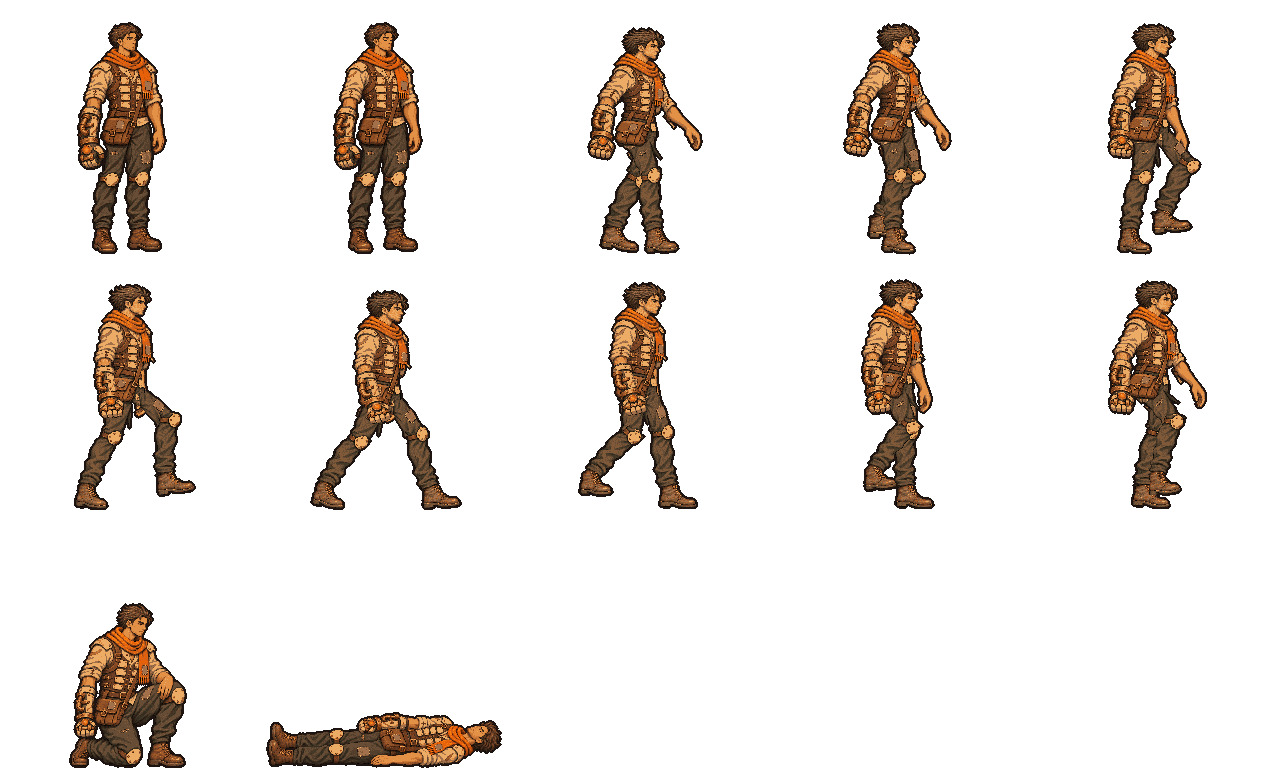
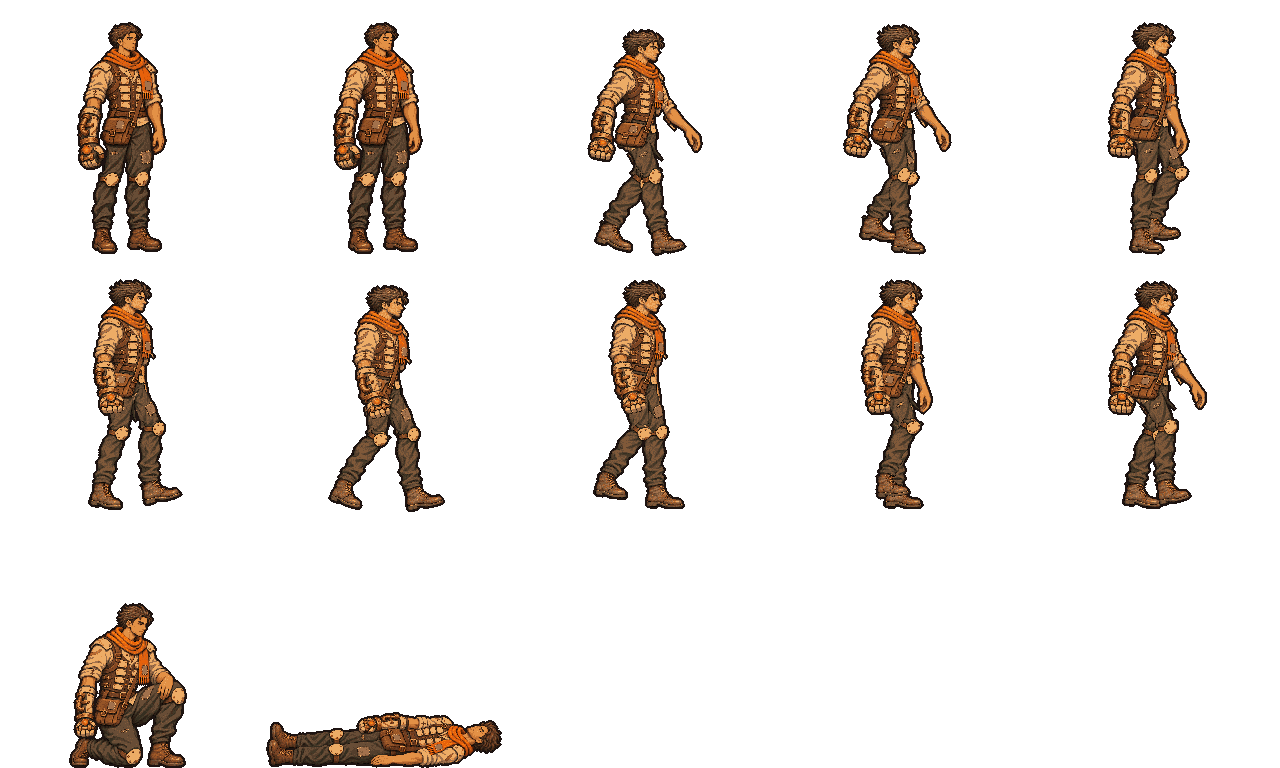
Mara walks evenly, without the marching knee
Mara's walk had three faults: the swinging foot rose high and stayed up
as it reached forward (a marching knee), the front leg landed bent, and
the body dipped twice as far on one step as on the other (a limp, because
each foot swung about its own drawn ankle and the masters stand with one
foot back). Now both feet swing about a point under the hips
(walk.footCentre, per leg where the drawing needs evening out), the
swinging foot clears the floor just after toe-off and lowers as the leg
straightens (walk.liftEarly, a lower lift), the stride is a little
shorter and a stronger toe-off roll lets the front leg land nearly
straight. Applied to all three outfits and the five sheets rebuilt. A
new test checks the even dip, the straight landing leg and the low
reaching foot; the footprint test now checks that planted feet do not
slide wherever they land.

Claude-Session: https://claude.ai/code/session_01AMqmskooHnvNzTbiQ2UBtU

diff --git a/adventure/tests/layered-rig.test.ts b/adventure/tests/layered-rig.test.ts
@@ -22,7 +22,7 @@ test('eleven complete registered layers reconstruct each approved master byte fo
 test('Mara walks with lower passing feet and a five-degree upper-body lean only',()=>{
   for(const [i,pack] of packs.entries()){
     const cfg=pack.cfg;
-    assert.equal(cfg.walk.lift,[120,117,107][i]);
+    assert.equal(cfg.walk.lift,[70,68,62][i]);
     assert.equal(cfg.walk.torsoLeanDegrees,5);
     const straight=structuredClone(cfg);delete straight.walk.torsoLeanDegrees;
     for(let phase=0;phase<8;phase+=.25){
@@ -31,7 +31,8 @@ test('Mara walks with lower passing feet and a five-degree upper-body lean only'
       assert.ok(Math.abs(torsoAngle-neutralAngle-5*Math.PI/180)<1e-10,'base lean is retained beneath the subtle counter-sway');
       assert.deepEqual(pose.feet,neutral.feet,'lean cannot move planted feet');
       assert.deepEqual(pose.knees,neutral.knees,'lean cannot change leg geometry');
-      for(const side of ['near','far'])assert.ok(cfg.joints[side+'Ankle'][1]-pose.feet[side].ankle[1]<=cfg.walk.lift+1e-7);
+      // The early lift peaks a little above walk.lift just after toe-off, and the toe-off roll raises the heel.
+      for(const side of ['near','far'])assert.ok(cfg.joints[side+'Ankle'][1]-pose.feet[side].ankle[1]<=cfg.walk.lift*1.25+1e-7);
     }
     const previous=structuredClone(cfg);previous.walk.lift=[180,175,160][i];delete previous.walk.torsoLeanDegrees;
     assert.ok(walkPose(cfg,6).knees.near[1]>walkPose(previous,6).knees.near[1],'passing knee is lower');
@@ -112,6 +113,23 @@ test('installed kneeling and lying frames preserve the gauntlet power state',()=
         const k=(y*a.width+x)*4;assert.equal(a.data[k+3],b.data[k+3]);if(!a.data.subarray(k,k+3).equals(b.data.subarray(k,k+3)))changed++;
       }
       assert.ok(changed>0&&changed<100,`${base}/${tag}: ${changed}`);
+    }
+  }
+});
+
+test('Mara steps evenly on both legs, lands on a nearly straight leg and swings the foot low as it reaches',()=>{
+  const bend=(h:number[],k:number[],a:number[])=>{const u=[h[0]-k[0],h[1]-k[1]],v=[a[0]-k[0],a[1]-k[1]];return 180-Math.acos((u[0]*v[0]+u[1]*v[1])/Math.hypot(...u)/Math.hypot(...v))*180/Math.PI;};
+  for(const pack of packs){
+    const cfg=pack.cfg,j=cfg.joints;
+    const contact=[0,4].map(p=>walkPose(cfg,p));
+    // Both steps dip the body by about the same amount (no limp).
+    assert.ok(Math.abs(contact[0].bodyDrop-contact[1].bodyDrop)<=8,`${cfg.outfit}: steps dip ${contact[0].bodyDrop.toFixed(0)} and ${contact[1].bodyDrop.toFixed(0)}`);
+    for(const [p,side] of [[0,'near'],[4,'far']] as const){
+      const pose=walkPose(cfg,p),hip=[j[side+'Hip'][0],j[side+'Hip'][1]+pose.bodyDrop];
+      assert.ok(bend(hip,pose.knees[side],pose.feet[side].ankle)<=28,`${cfg.outfit}: the ${side} leg lands nearly straight`);
+      // Late in the swing (the foot ahead, about to land) it is low and the knee is opening, not marching.
+      const late=walkPose(cfg,(p+7)%8),swingSide=side;
+      assert.ok(j[swingSide+'Ankle'][1]-late.feet[swingSide].ankle[1]<=cfg.walk.lift*0.6,`${cfg.outfit}: the ${swingSide} foot is low as it reaches`);
     }
   }
 });

diff --git a/adventure/tests/art-contracts.test.ts b/adventure/tests/art-contracts.test.ts
@@ -60,12 +60,16 @@ test('hierarchical joints meet and bone lengths stay fixed through the complete 
 });
 
 test('heel, flat-foot and toe contacts stay on their footprint while the actor moves forward',()=>{
+  // Each contact point (heel, flat foot, toe) stays where it touched down, in world space, as the
+  // actor travels forward by a quarter stride per frame.
   for(const cfg of configs)for(const [side,start] of [['near',0],['far',4]] as const){
+    const first=new Map<string,number[]>();
     for(let phase=start;phase<start+4;phase+=.25){
       const foot=walkPose(cfg,phase).feet[side];assert.ok(foot.planted);
       const q=(phase+(side==='near'?0:4))%8;
-      const world=[foot.contact[0]+q*cfg.walk.strideSource/4,foot.contact[1]];
-      assert.ok(distance(world,[foot.contactSource[0]+cfg.walk.strideSource/2,foot.contactSource[1]])<1e-7);
+      const world=[foot.contact[0]+q*cfg.walk.strideSource/4,foot.contact[1]],key=foot.contactSource.join();
+      if(!first.has(key))first.set(key,world);
+      assert.ok(distance(world,first.get(key)!)<1e-7,'a planted foot does not slide');
     }
   }
 });
@@ -73,7 +77,8 @@ test('heel, flat-foot and toe contacts stay on their footprint while the actor m
 test('walk has restrained heel-to-toe roll, counter-sway and a heavier gauntlet arm',()=>{
   const rotation=(m:number[])=>Math.atan2(m[1],m[0]);
   for(const cfg of configs){
-    assert.equal(cfg.walk.footRollDegrees,6);assert.equal(cfg.walk.transitionMs,90);
+    // Enough toe-off roll to keep the landing knee nearly straight (art/layered-rig.mjs footMotion).
+    assert.equal(cfg.walk.footRollDegrees,14);assert.equal(cfg.walk.transitionMs,90);
     const heel=walkPose(cfg,0),flat=walkPose(cfg,1.5),toe=walkPose(cfg,3.5);
     assert.ok(rotation(heel.mats.nearBoot)<0);assert.ok(Math.abs(rotation(flat.mats.nearBoot))<1e-7);assert.ok(rotation(toe.mats.nearBoot)>0);
     const a=walkPose(cfg,2),b=walkPose(cfg,6);
